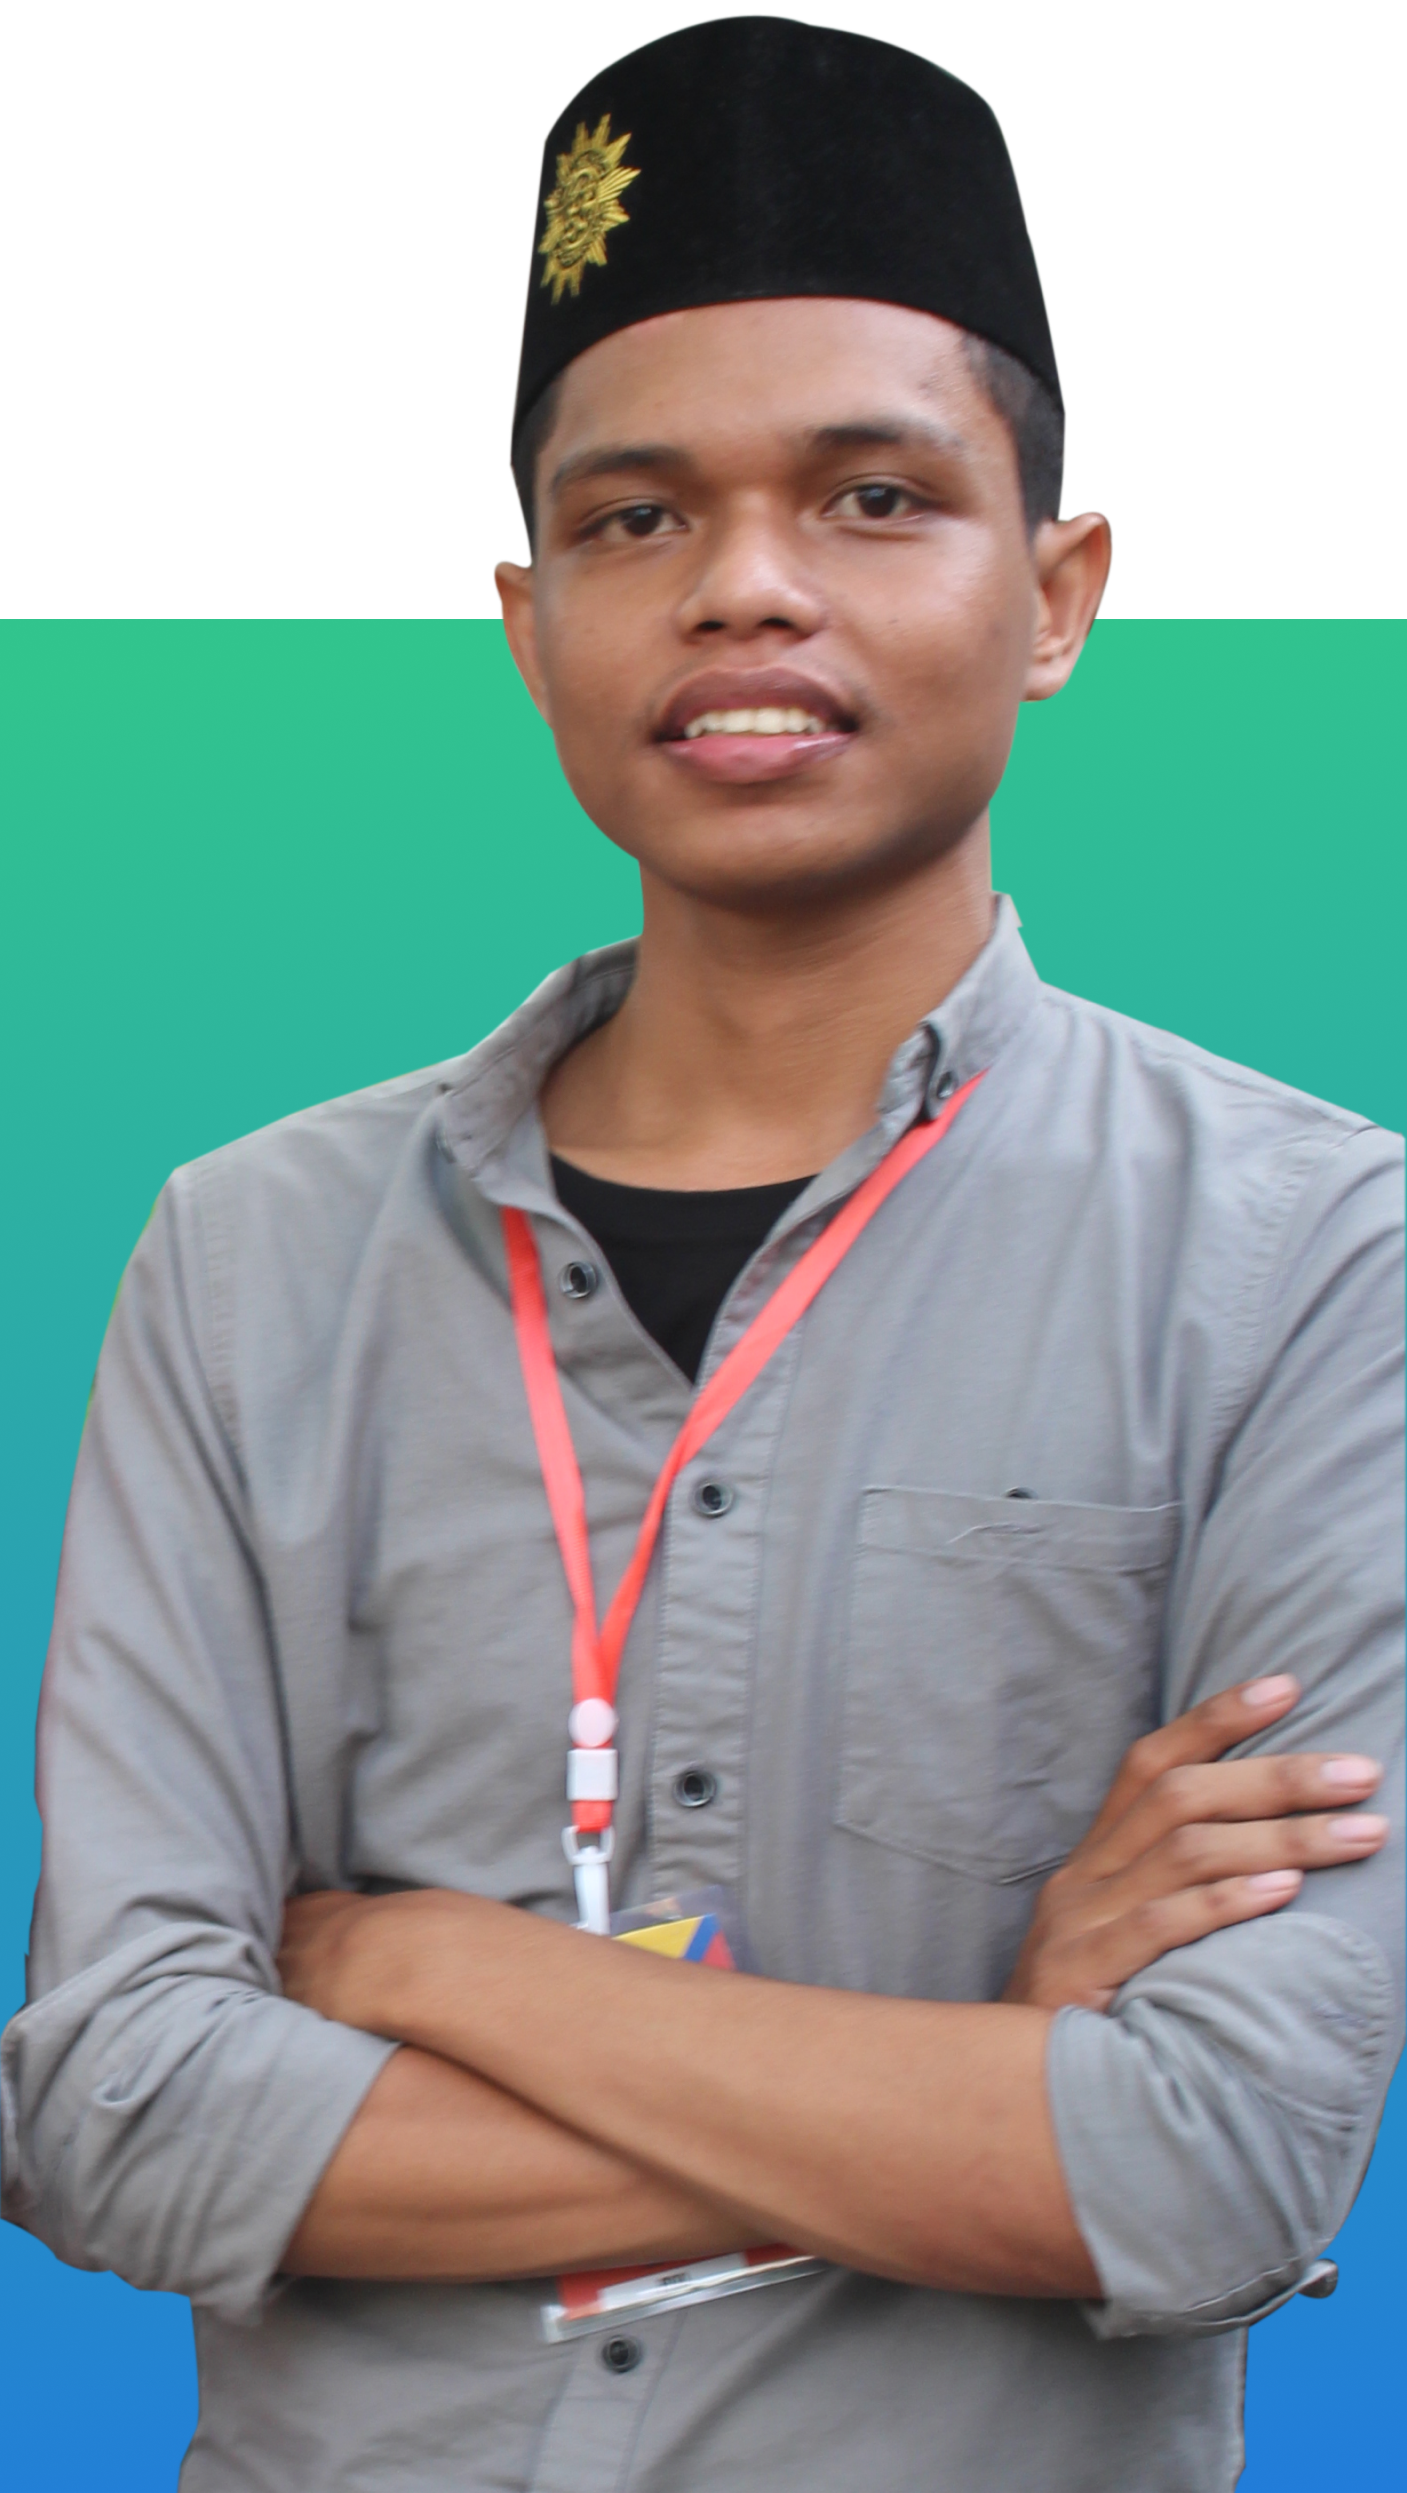
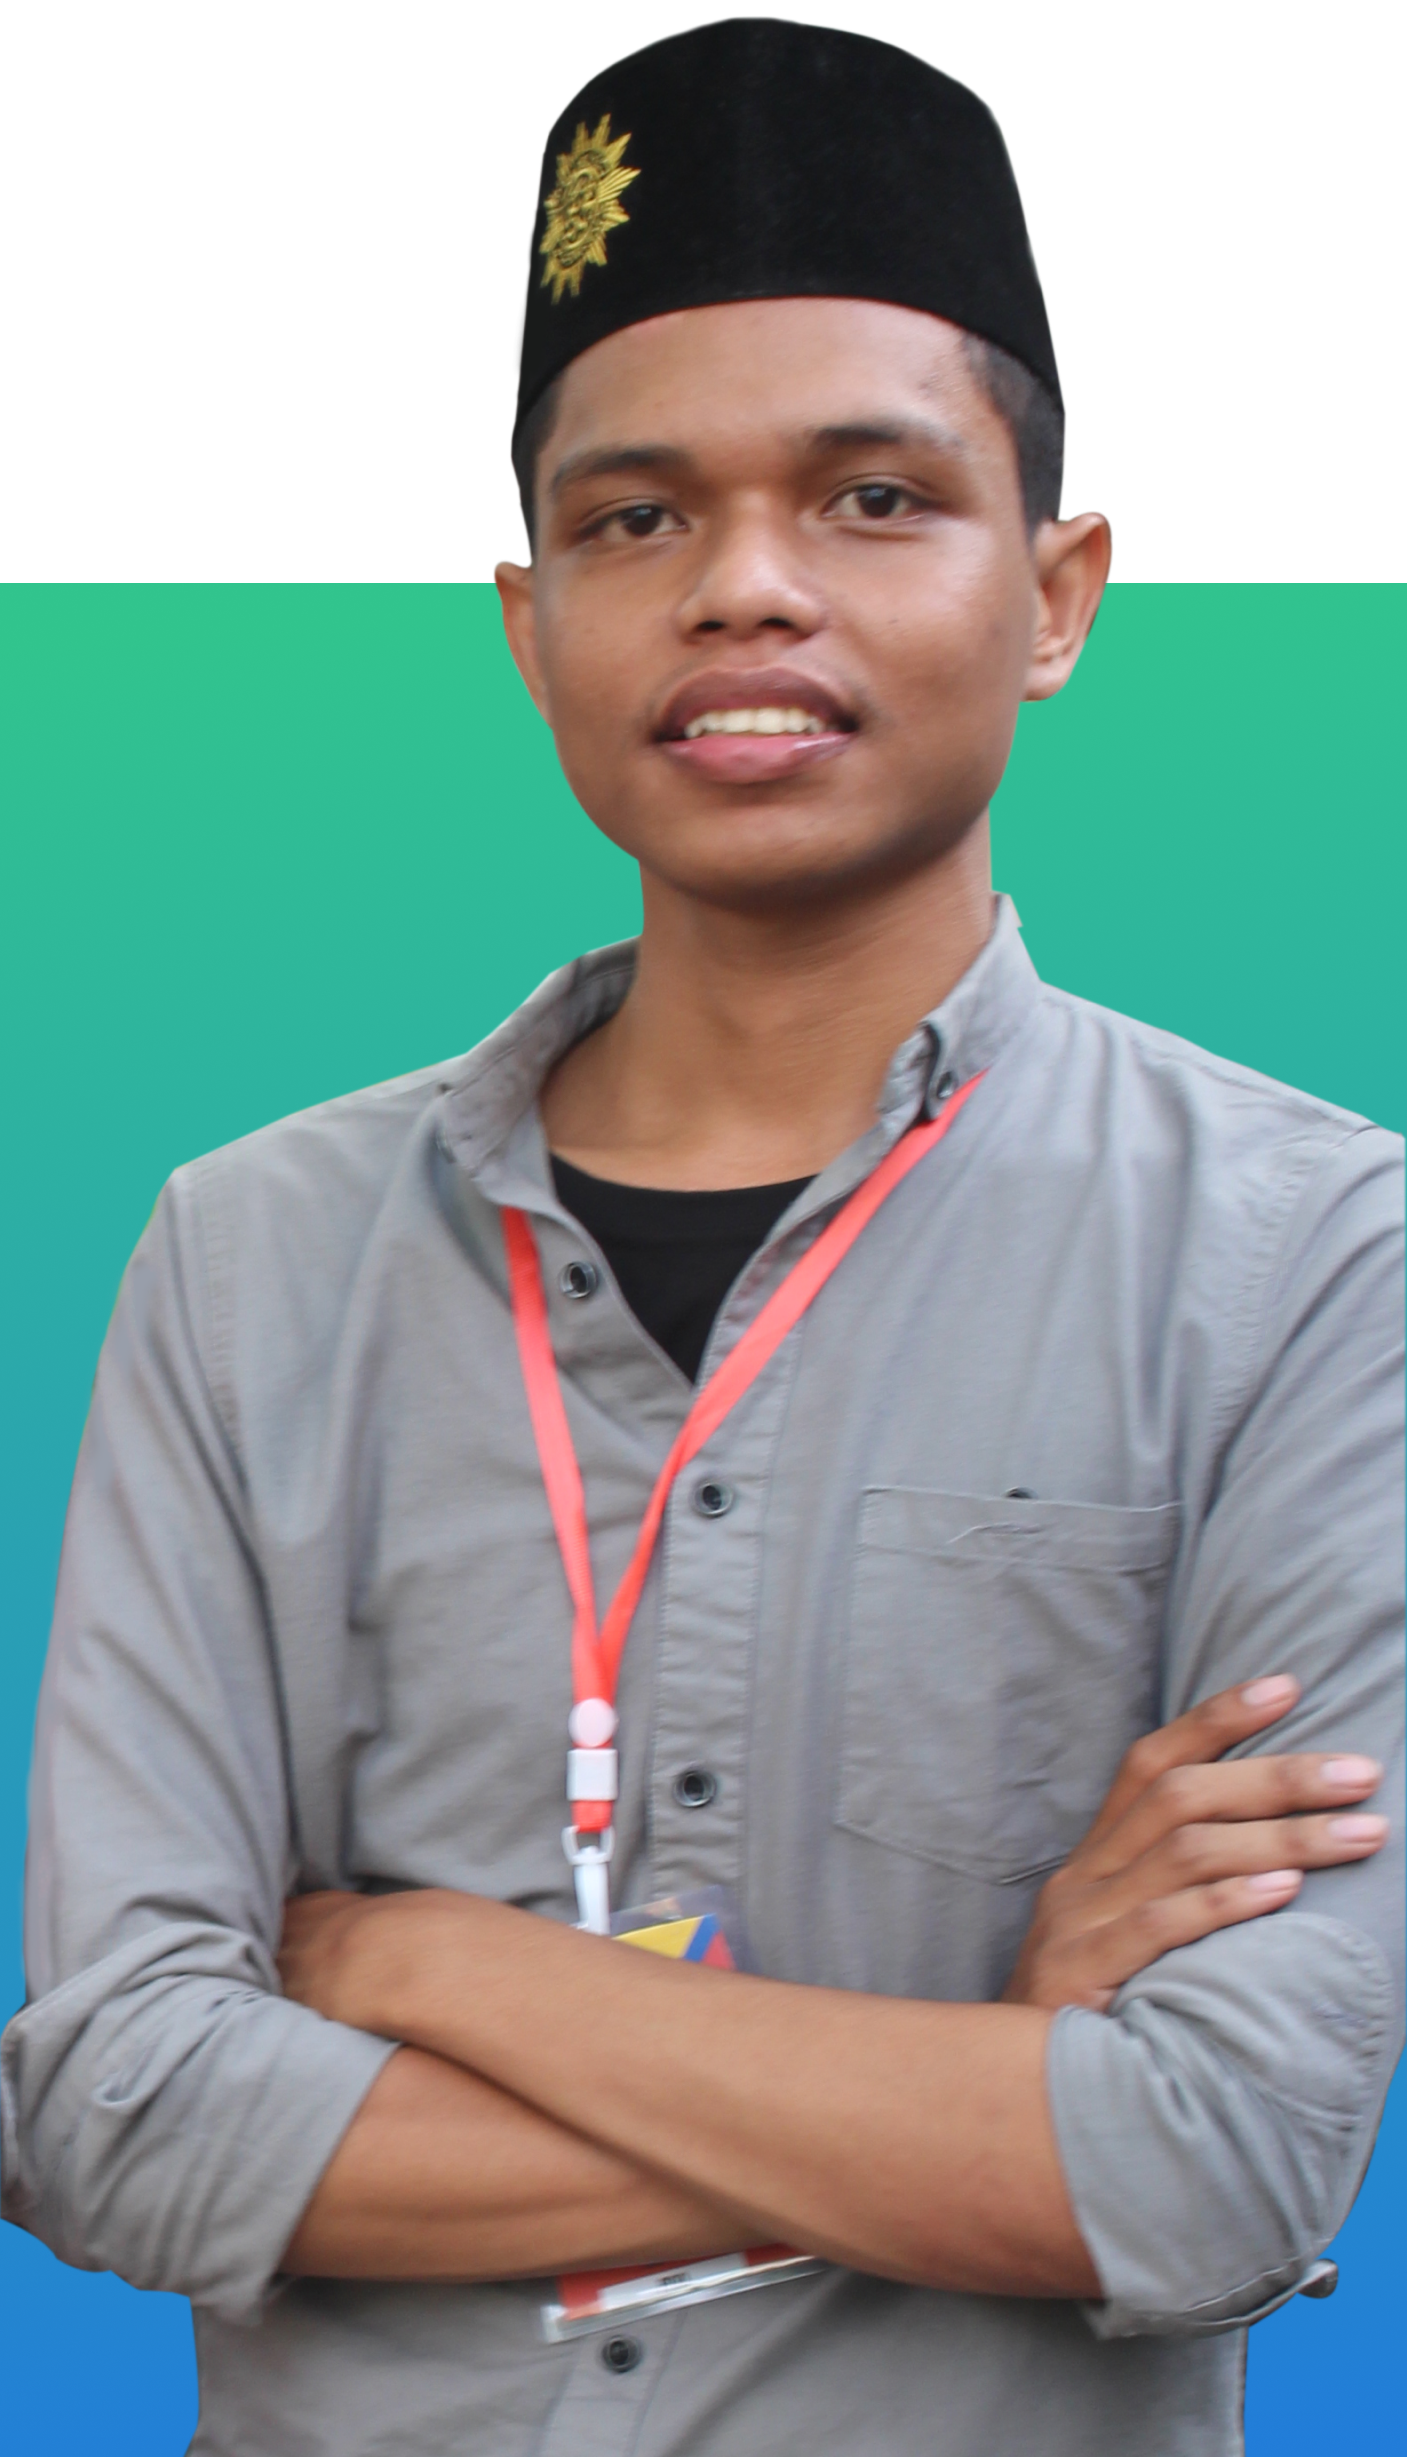
Update Hero

diff --git a/src/sections/Hero.jsx b/src/sections/Hero.jsx
@@ -14,7 +14,7 @@ const Hero = () => {
 
    return(
       <>
-         <div className={`${styles.section} `}>
+         <div className={`${styles.section}`}>
             <div className="flex gap-8 flex-col md:w-3/5 w-[90%] ">
                <h1 className={`${styles.headTextStyle}`}>Hi There, I'm <br /> La Ode Mimshad.</h1>
                <span className={`text-md text-secondary`}>I am a beginner front-end developer with a passion for creating beautiful and user-friendly websites.
@@ -38,7 +38,7 @@ const Hero = () => {
                   </a>
                </div>
             </div>
-            <div className={`} overflow-hidden drop-shadow-xl md:w-[35%] w-[85%] mt-20`}>
+            <div className={`} overflow-hidden drop-shadow-xl md:w-[35%] md:mt-0 w-[85%] mt-20`}>
                   <img img src={Heros} alt="gambar" />
             </div>
          </div>
